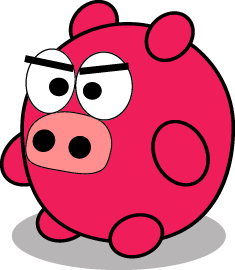
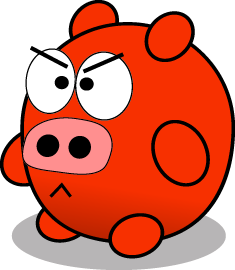
[UPDATE]StartScene Pig style fix and episode scene star animation

diff --git a/Classes/GameScene/EpisodeScene.cpp b/Classes/GameScene/EpisodeScene.cpp
@@ -78,7 +78,7 @@ namespace GameScene
                 for (int j = 0; j < starNum; j++) {
                     auto star = new GameSprite::Star(starImage);
                     star->setPosition(this->getStarPosition(i, j));
-                    stageButton->addChild(star, 3);
+                    stageButton->addChild(star, 4);
                     key << "EpisodeScene_Star_" << this->episodeNumber << "_" << i << "_" << j;
                     spriteManager->setWithKey(key.str(), star);
                     key.clear();
@@ -168,7 +168,7 @@ namespace GameScene
                 key << "EpisodeScene_Star_" << this->episodeNumber << "_" << this->newHighScoreStage << "_" << i;
                 auto star = spriteManager->getByKey(key.str());
                 star->setScale(3.0f);
-                star->setPosition(Vec2(this->center.x - buttonPosition.x, this->center.y - buttonPosition.y));
+                star->setPosition(Vec2(this->centerBottom.x - buttonPosition.x, this->centerBottom.y - buttonPosition.y));
                 star->runAction(RotateBy::create(0.3f, 1080));
                 star->runAction(ScaleTo::create(0.3f, 1.0f));
                 star->runAction(MoveTo::create(0.3f, this->getStarPosition(this->newHighScoreStage, i)));
